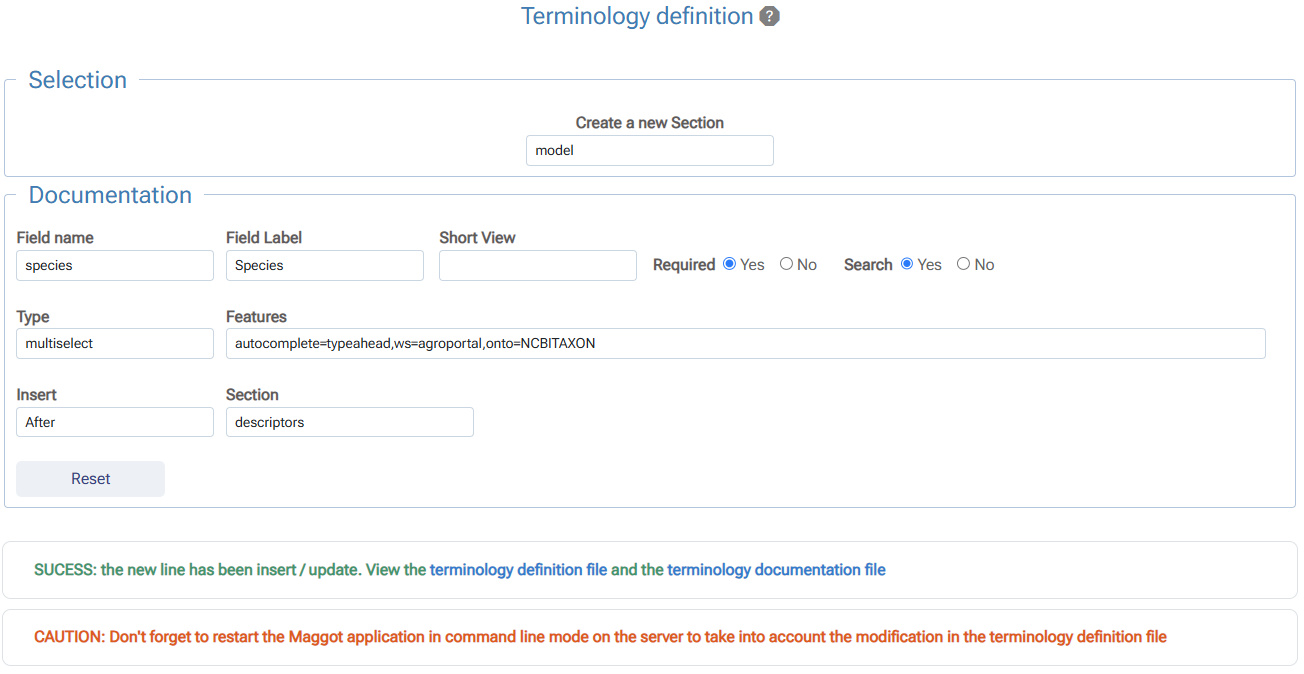
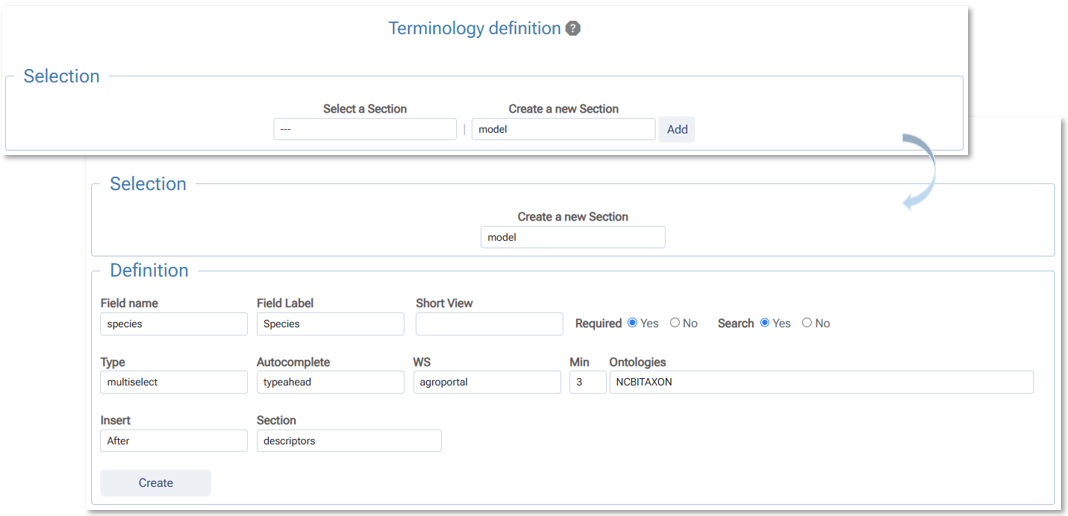
update

diff --git a/docs/configuration.md b/docs/configuration.md
@@ -45,6 +45,12 @@ First, you select an existing section or define one to create, as well as a fiel
 <a href="../images/config2b.png" data-lightbox="fig2b"><img src="../images/config2b.png" width="600px"></a>
 </center>
 
+In particular, support is provided for setting feature attributes as shown below :
+
+<center>
+<a href="../images/config2e.png" data-lightbox="fig2e"><img src="../images/config2e.png" width="600px"></a>
+</center>
+
 <br>
 
 The next step is to entry a description for each newly created field and/or section (**2**). The figure below shows an example of documentation of the new section along with its field. Selecting the section alone without the field allows you to document it. Selecting a field also allows you to document it.
